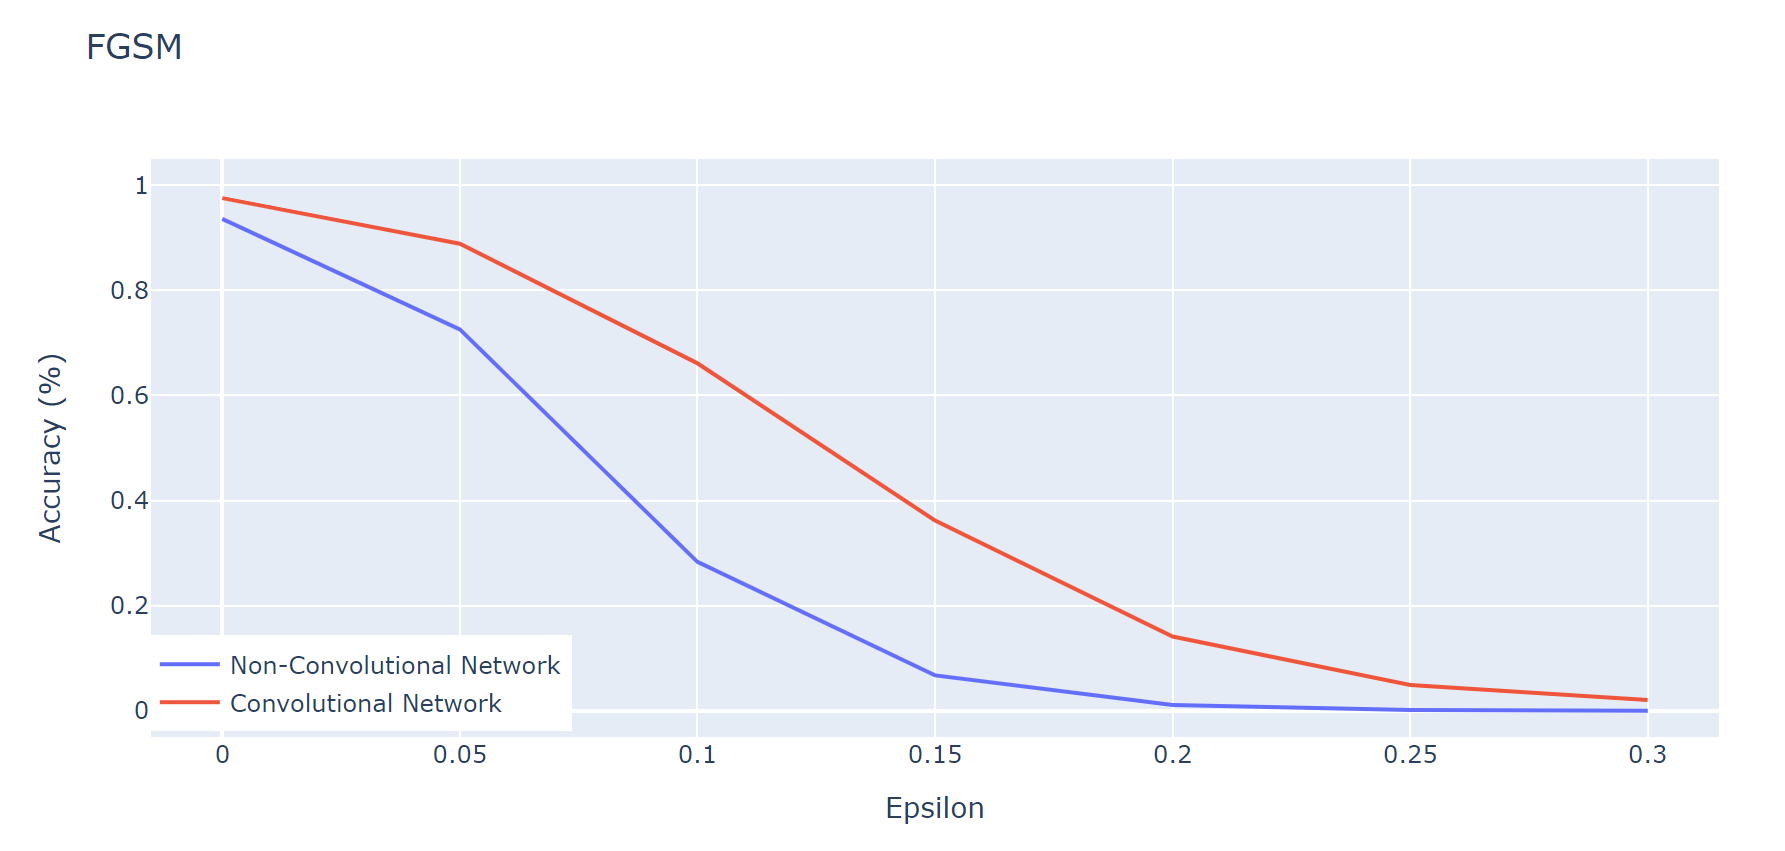
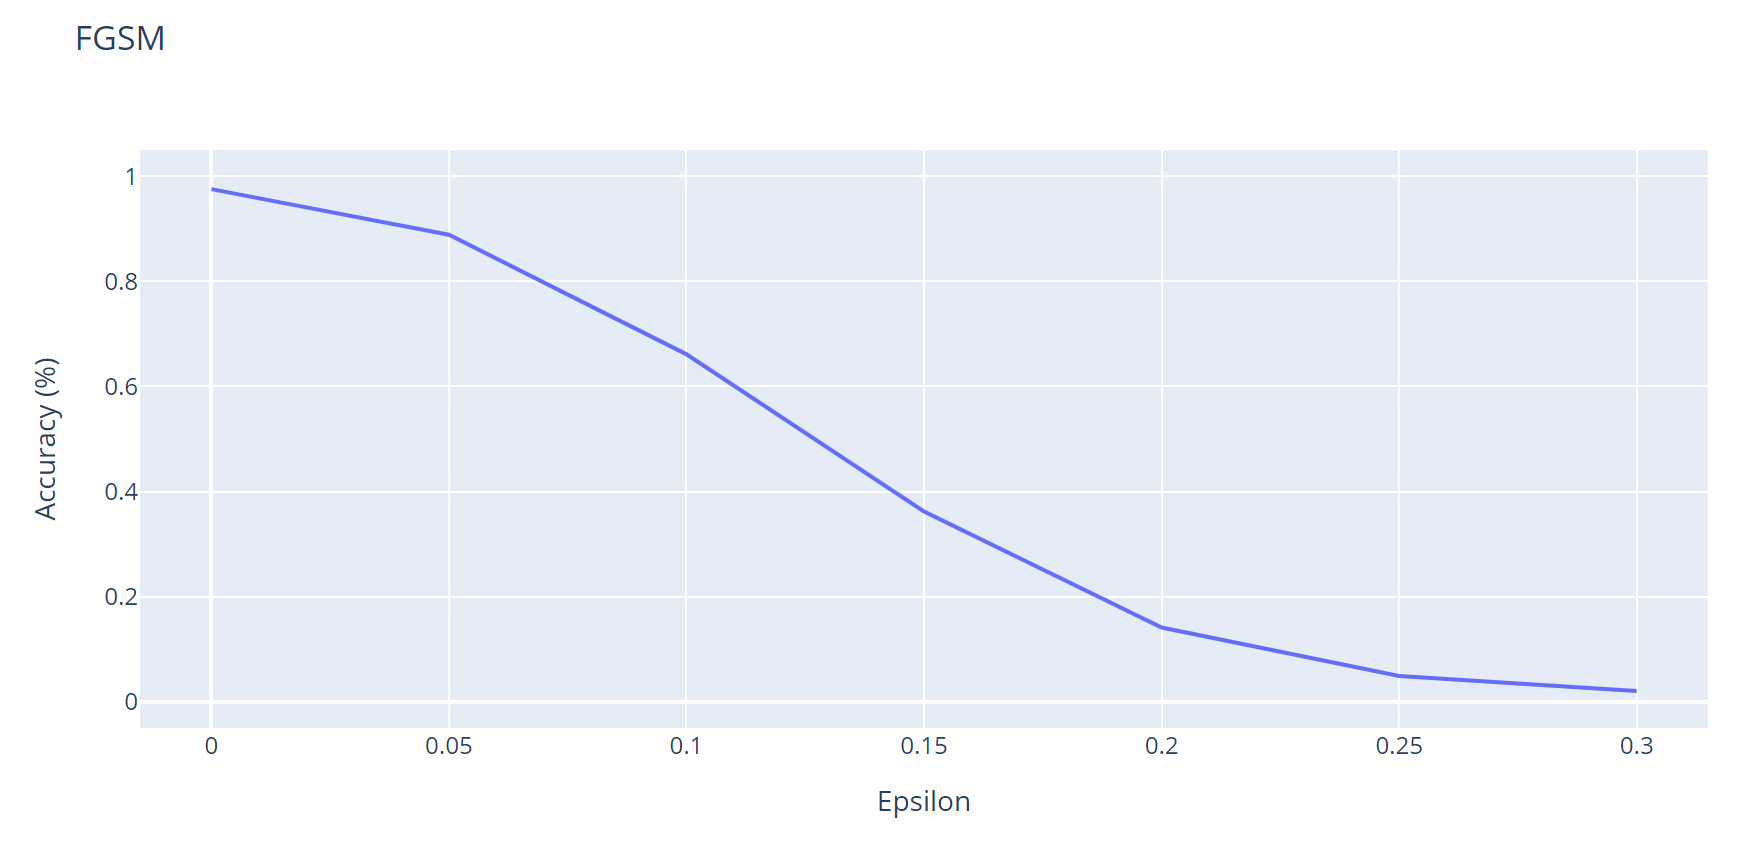
abandon non-conv

diff --git a/tasks/noise_on_accuracy.py b/tasks/noise_on_accuracy.py
@@ -2,7 +2,7 @@ import torch
 import numpy as np
 import plotly.graph_objects as go
 
-from models import ConvClassificationModel, NonConvClassificationModel
+from models import ConvClassificationModel
 from data import get_data
 
 def set_seed(seed_val: int):
@@ -21,6 +21,7 @@ def evaluate_noise(net, data_name, noise_name, b_size, seed_val, rerun=False):
             set_seed(seed_val)
             acc = net.eval_model(test_data_loader)
             accuracies.append(acc)
+        print(percent_noise, accuracies)
     elif noise_name == 'snp':
         if isinstance(net, ConvClassificationModel):
             accuracies = [0.9592, 0.9065, 0.7882, 0.65, 0.5002]
@@ -28,17 +29,16 @@ def evaluate_noise(net, data_name, noise_name, b_size, seed_val, rerun=False):
             accuracies = [0.9171, 0.8294, 0.6708, 0.5282, 0.4156]
     else:
         if isinstance(net, ConvClassificationModel):
-            accuracies = [0.9483, 0.9151, 0.8707, 0.8251, 0.7806]
+            accuracies = [0.9199, 0.858, 0.7056, 0.5639, 0.444]
         else:
-            accuracies = [0.9025, 0.8629, 0.8241, 0.7829, 0.7463]
+            accuracies = [0.9639, 0.933, 0.846, 0.7141, 0.5842]
 
     return percent_noise, accuracies
         
-def plot_accuracy(data, labels, title):
+def plot_accuracy(data, labels):
     fig = go.Figure()
     
     fig.update_layout(
-        title=title,
         xaxis_title='% Image Replaced with Noise',
         yaxis_title='Accuracy (%)'
     )
@@ -73,46 +73,30 @@ def visualize_noisy_affects_accuracy():
     seed = 2
     batch_size = 64
     data_name = 'MNIST'
-    noise_type = 'snp'
-    print(noise_type)
 
     # Download MNIST data set
     test_set = get_data(data_name, False)
     test_loader = torch.utils.data.DataLoader(test_set, batch_size, shuffle=True)
 
-    # MNIST digit dataset values
-    input_size = np.prod(test_set.data.shape[1:])
-    output_size = len(test_set.classes)
-
-    # Create models
-    nonconv_net = NonConvClassificationModel(input_size, output_size)
     conv_net = ConvClassificationModel()
 
-    # Load models
-    nonconv_net.load(torch.load('models\\pre_trained_models\\mnist_digit_nonconv.model'))
+    # Load model
     conv_net.load(torch.load('models\\pre_trained_models\\mnist_digit_conv.model'))
 
     # Get base accuracy
     set_seed(seed)
-    base_nonconv_acc = nonconv_net.eval_model(test_loader)
-    set_seed(seed)
     base_conv_acc = conv_net.eval_model(test_loader)
 
-    # Evaluate noise
-    nonconv_percent, nonconv_acc = evaluate_noise(nonconv_net, 'MNIST', noise_type, batch_size, seed)
-    conv_percent, conv_acc = evaluate_noise(conv_net, 'MNIST', noise_type, batch_size, seed)
+    data = []
+    for noise_type in ['snp', 'gaussian']:
+        # Evaluate noise
+        conv_percent, conv_acc = evaluate_noise(conv_net, 'MNIST', noise_type, batch_size, seed)
 
-    # Insert base accuracy
-    nonconv_percent.insert(0,0)
-    nonconv_acc.insert(0, base_nonconv_acc)
-    conv_percent.insert(0,0)
-    conv_acc.insert(0, base_conv_acc)
+        # Insert base accuracy
+        conv_percent.insert(0,0)
+        conv_acc.insert(0, base_conv_acc)
 
-    # Plot results
-    labels = ['Non-Convolutional Network', 'Convolutional Network']
-    data = [(nonconv_percent, nonconv_acc), (conv_percent, conv_acc)]
+        # Plot results
+        data.append((conv_percent, conv_acc))
 
-    if noise_type == 'snp':
-        plot_accuracy(data, labels, 'Salt-And-Pepper Noise')
-    else:
-        plot_accuracy(data, labels, 'Gaussian Noise')
+    plot_accuracy(data, ['Salt-And-Pepper Noise', 'Gaussian Noise'])

diff --git a/tasks/adv_attacks_on_accuracy.py b/tasks/adv_attacks_on_accuracy.py
@@ -2,7 +2,7 @@ import torch
 import numpy as np
 import plotly.graph_objects as go
 
-from models import ConvClassificationModel, NonConvClassificationModel
+from models import ConvClassificationModel
 from data import get_data
 from adv_attacks import FGSM, OnePixel
 
@@ -45,7 +45,7 @@ def evaluate_onepixel_attack(net, test_data, loss_func, seed_val, rerun=False):
 
     return num_pixels, accuracies   
 
-def plot_accuracy(data, labels, title, axis_label):
+def plot_accuracy(data, title, axis_label):
     fig = go.Figure()
     
     fig.update_layout(
@@ -66,8 +66,7 @@ def plot_accuracy(data, labels, title, axis_label):
             go.Scatter(
                 x=net_data[0],
                 y=net_data[1],
-                mode='lines',
-                name=labels[i]
+                mode='lines'
             )
         )
 
@@ -80,10 +79,6 @@ def plot_accuracy(data, labels, title, axis_label):
         },
         yaxis={
             'range': [-0.05,1.05]
-        },
-        legend={
-            'x': 0.05*x_min,
-            'y': 0.01
         }
     )
 
@@ -100,21 +95,13 @@ def visualize_adv_affects_accuracy():
     test_set = get_data(data_name, False)
     test_loader = torch.utils.data.DataLoader(test_set, batch_size, shuffle=True)
 
-    # MNIST digit dataset values
-    input_size = np.prod(test_set.data.shape[1:])
-    output_size = len(test_set.classes)
-
-    # Create models
-    nonconv_net = NonConvClassificationModel(input_size, output_size)
+    # Create model
     conv_net = ConvClassificationModel()
 
-    # Load models
-    nonconv_net.load(torch.load('models\\pre_trained_models\\mnist_digit_nonconv.model'))
+    # Load model
     conv_net.load(torch.load('models\\pre_trained_models\\mnist_digit_conv.model'))
 
     # Get base accuracy
-    set_seed(seed)
-    base_nonconv_acc = nonconv_net.eval_model(test_loader)
     set_seed(seed)
     base_conv_acc = conv_net.eval_model(test_loader)
 
@@ -122,23 +109,17 @@ def visualize_adv_affects_accuracy():
     loss_func = torch.nn.NLLLoss()
     if attack_name == 'FGSM':
         axis_title = 'Epsilon'
-        nonconv_x, nonconv_acc = evaluate_fgsm_attack(nonconv_net, test_loader, loss_func, seed)
         conv_x, conv_acc = evaluate_fgsm_attack(conv_net, test_loader, loss_func, seed)
     elif attack_name == 'OnePixel':
         axis_title = 'Number of Pixels'
-        nonconv_x, nonconv_acc = evaluate_onepixel_attack(nonconv_net, test_loader, loss_func, seed)
         conv_x, conv_acc = evaluate_onepixel_attack(conv_net, test_loader, loss_func, seed)
     else:
         raise NotImplementedError('Unknown attack type: {0}. Available attacks; [FGSM, OnePixel]'.format(attack_name))
 
     # Insert base accuracy
-    nonconv_x.insert(0,0)
-    nonconv_acc.insert(0, base_nonconv_acc)
     conv_x.insert(0,0)
     conv_acc.insert(0, base_conv_acc)
 
     # Plot results
-    labels = ['Non-Convolutional Network', 'Convolutional Network']
-    data = [(nonconv_x, nonconv_acc), (conv_x, conv_acc)]
-    plot_accuracy(data, labels, attack_name, axis_title)
-    # Zoom 200% to save file
+    data = [(conv_x, conv_acc)]
+    plot_accuracy(data, attack_name, axis_title)

diff --git a/data/data_transforms.py b/data/data_transforms.py
@@ -25,7 +25,7 @@ class AddNoise(object):
 
 
 class AddGaussianNoise(AddNoise):
-    def __init__(self, percent_noise: float, mean: float = 0.0, std: float = 1.0):
+    def __init__(self, percent_noise: float, mean: float = 0.5, std: float = 0.2):
         super(AddGaussianNoise, self).__init__(percent_noise)
         self.std = std
         self.mean = mean
@@ -38,14 +38,15 @@ class AddGaussianNoise(AddNoise):
         index_samples = self._get_unique_indicies(tensor.size())
 
         # Create mask
-        mask = torch.zeros_like(tensor)
+        result = tensor.clone()
         for multi_index in index_samples:
-            mask[tuple(multi_index)] = 1.0
+            result[tuple(multi_index)] = gaussian_samples[tuple(multi_index)]
         
-        # Create gaussian mask
-        gaussian_mask = torch.mul(mask, gaussian_samples)
+        # Clamp
+        result[result < 0.0] = 0.0
+        result[result > 1.0] = 1.0
 
-        return tensor + gaussian_mask
+        return result
     
     def __repr__(self):
         return self.__class__.__name__ + '(mean={0}, std={1}) with p={2}'.format(self.mean, self.std, self.p_noise)
@@ -57,13 +58,14 @@ class AddSaltAndPepperNoise(AddNoise):
         index_samples = self._get_unique_indicies(tensor.size())
 
         # Alter tensor
+        result = tensor.clone()
         for multi_index in index_samples:
             if np.random.choice(2) == 0:
-                tensor[tuple(multi_index)] = 0.05
+                result[tuple(multi_index)] = 0.05
             else:
-                tensor[tuple(multi_index)] = 0.95
+                result[tuple(multi_index)] = 0.95
 
-        return tensor
+        return result
 
     def __repr__(self):
         return self.__class__.__name__ + ' with p={0}'.format(self.p_noise)

diff --git a/tasks/visualize_filters.py b/tasks/visualize_filters.py
@@ -3,7 +3,7 @@ import numpy as np
 from plotly.subplots import make_subplots
 import plotly.graph_objects as go
 
-from models import ConvClassificationModel, NonConvClassificationModel
+from models import ConvClassificationModel
 from data import get_data
 
 def plot_filter_layer(filter_layers):
@@ -50,23 +50,11 @@ def plot_filter_layer(filter_layers):
         input()
 
 def visualize_filters():
-    # Download MNIST data set
-    train_set = get_data('MNIST', True)
-
-    # MNIST digit dataset values
-    input_size = np.prod(train_set.data.shape[1:])
-    output_size = len(train_set.classes)
-
     # Create models
-    nonconv_net = NonConvClassificationModel(input_size, output_size)
     conv_net = ConvClassificationModel()
 
-    # Load models
-    nonconv_net.load(torch.load('models\\pre_trained_models\\mnist_digit_nonconv.model'))
+    # Load model
     conv_net.load(torch.load('models\\pre_trained_models\\mnist_digit_conv.model'))
-
-    # Plot non-convolutional weights
-    #TODO
 
     # Plot convolutional filters
     filters = [

diff --git a/tasks/visualize_noise_on_filter.py b/tasks/visualize_noise_on_filter.py
@@ -50,7 +50,7 @@ def visualize_noisy_affects_filter():
     seed = 2
     data_name = 'MNIST'
     show_all = False
-    noise_type = 'snp'
+    noise_type = 'gaussian'
 
     # Download MNIST data set
     set_seed(seed)
@@ -106,7 +106,7 @@ def visualize_noisy_affects_filter():
                 dcc.Dropdown(
                     id='filter-index',
                     options=[{'label': i, 'value': i} for i in  [1,2]],
-                    value=1
+                    value=2
                 ),
             ],
             style={'width': '33%', 'display': 'inline-block', 'vertical-align': 'top'}),
